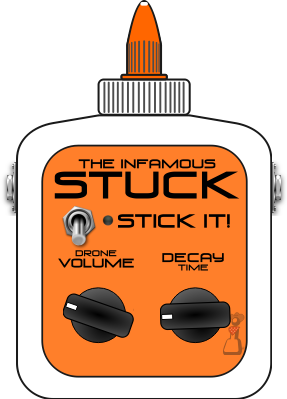
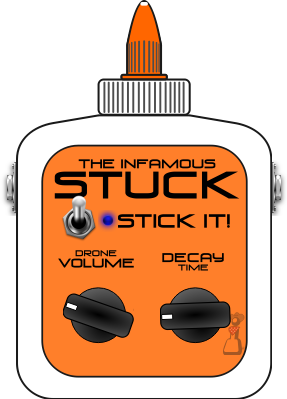
Update ewham and stuck bundles

Changed region(s): [[0.2509, 0.4812, 0.3066, 0.6316], [0.3345, 0.5113, 0.4181, 0.6015]]

diff --git a/plugins-fixed/stuck.lv2/modgui/stuck.html b/plugins-fixed/stuck.lv2/modgui/stuck.html
@@ -8,15 +8,13 @@
     </div>
     <div class="mod-footswitch" title="Switch on/off hold."
       mod-widget="switch"
-      mod-role="input-control-port"
-      mod-port-symbol="STICK_IT" >
+      mod-role="bypass" >
     </div>
     <div class="mod-light" title="Switch on/off hold."
       mod-widget="switch"
-      mod-role="input-control-port"
-      mod-port-symbol="STICK_IT" >
+      mod-role="bypass-light" >
     </div>
-    <div class="mod-pedal-input">
+    <div class="mod-pedal-input" >
       {{#effect.ports.audio.input}}
       <div class="mod-input mod-input-disconnected" title=
       "{{name}}" mod-role="input-audio-port" mod-port-symbol=

diff --git a/plugins-fixed/stuck.lv2/modgui/stuck.css b/plugins-fixed/stuck.lv2/modgui/stuck.css
@@ -48,10 +48,10 @@
     margin: 4px auto 0 auto;
 }
 .stuck .mod-footswitch.on {
-    background-position: top center !important;
+    background-position: bottom center !important;
 }
 .stuck .mod-footswitch.off {
-    background-position: bottom center !important;
+    background-position: top center !important;
 }
 
 /* = KNOBS
